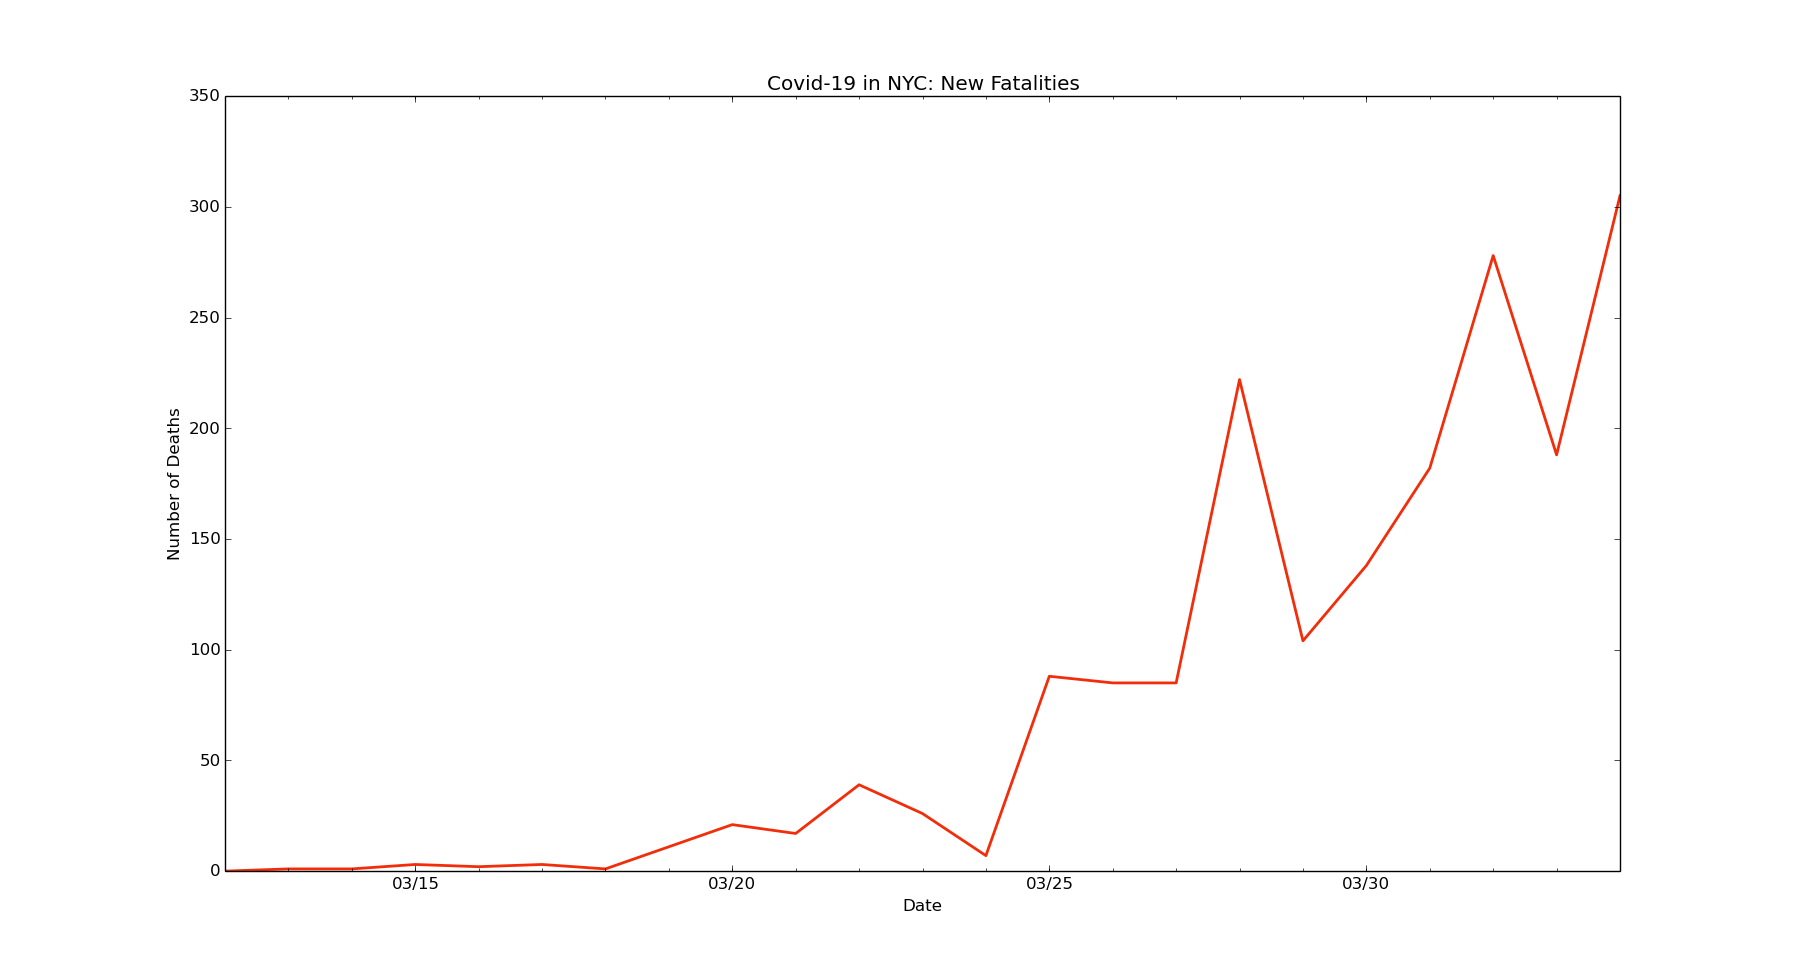
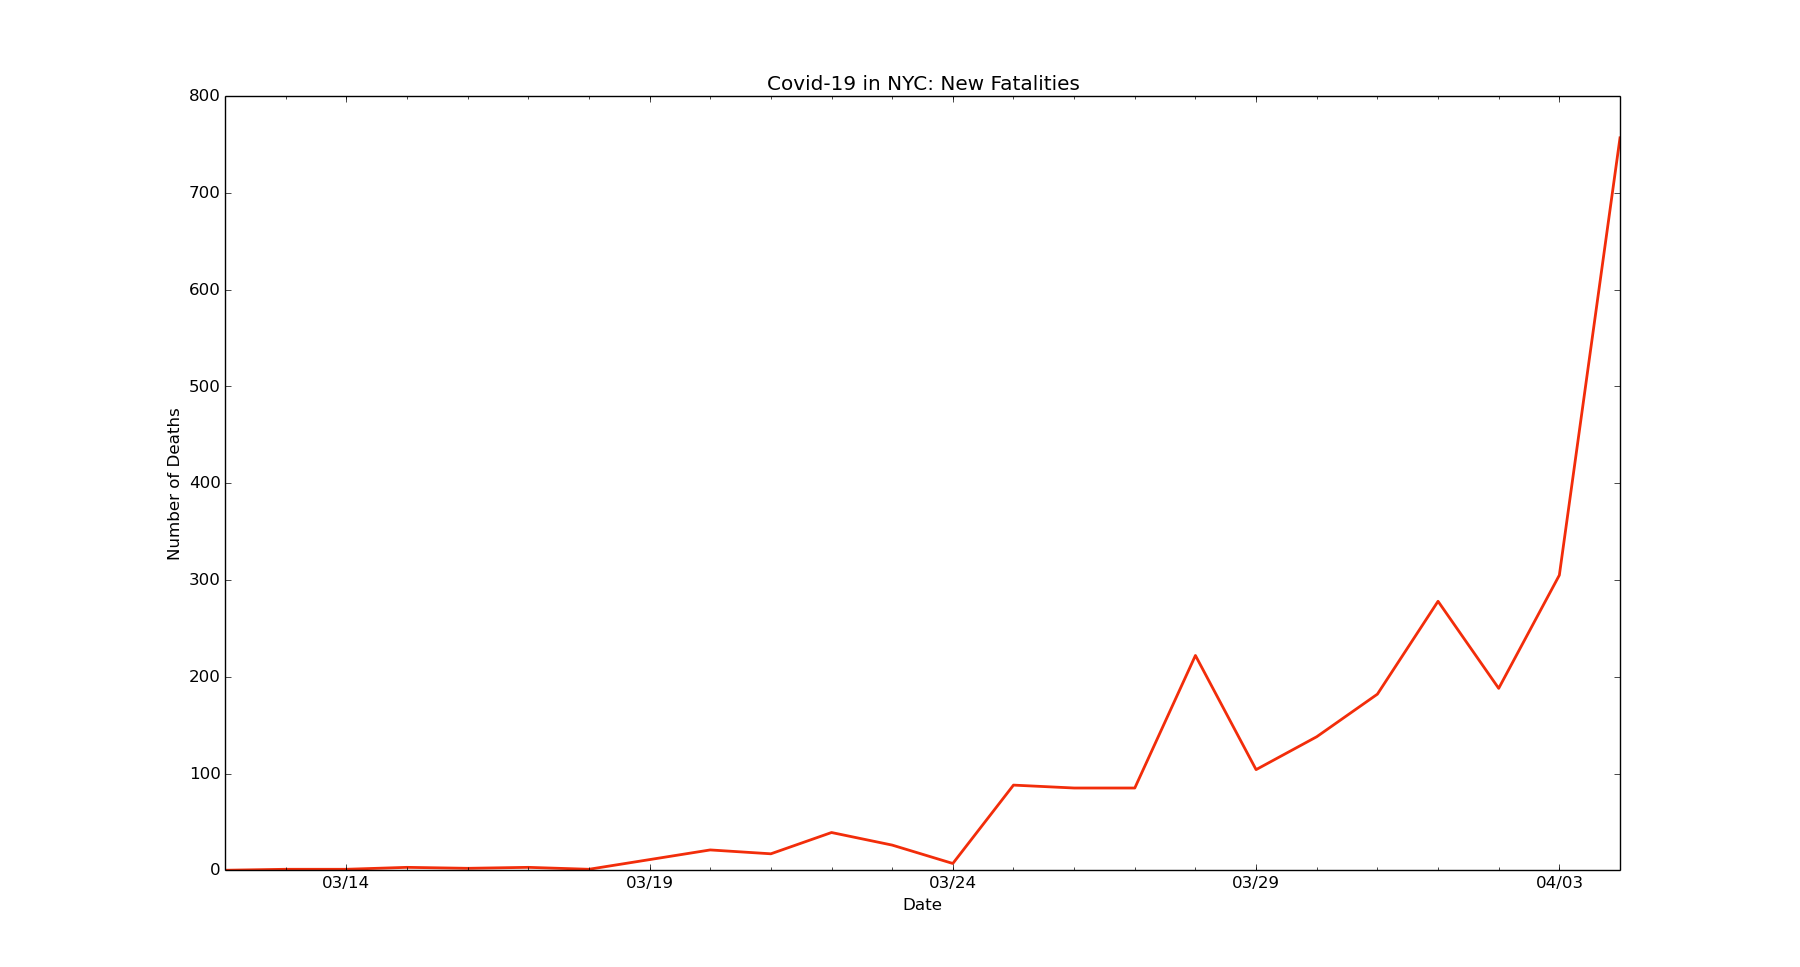
chore: Update data for NYC

diff --git a/nyc/nyc-new-cases.py b/nyc/nyc-new-cases.py
@@ -6,7 +6,7 @@ import matplotlib.dates as mdates
 import matplotlib.ticker as ticker
 from matplotlib.dates import MO, TU, WE, TH, FR, SA, SU
 
-dates = ['2/29/2020', '3/1/2020', '3/2/2020', '3/3/2020', '3/4/2020', '3/5/2020', '3/6/2020', '3/7/2020', '3/8/2020', '3/9/2020', '3/10/2020', '3/11/2020', '3/12/2020', '3/13/2020', '3/14/2020', '3/15/2020', '3/16/2020', '3/17/2020', '3/18/2020', '3/19/2020', '3/20/2020', '3/21/2020', '3/22/2020', '3/23/2020', '3/24/2020', '3/25/2020', '3/26/2020', '3/27/2020', '3/28/2020', '3/29/2020', '3/30/2020', '3/31/2020', '4/1/2020', '4/2/2020', '4/3/2020']
+dates = ['2/29/2020', '3/1/2020', '3/2/2020', '3/3/2020', '3/4/2020', '3/5/2020', '3/6/2020', '3/7/2020', '3/8/2020', '3/9/2020', '3/10/2020', '3/11/2020', '3/12/2020', '3/13/2020', '3/14/2020', '3/15/2020', '3/16/2020', '3/17/2020', '3/18/2020', '3/19/2020', '3/20/2020', '3/21/2020', '3/22/2020', '3/23/2020', '3/24/2020', '3/25/2020', '3/26/2020', '3/27/2020', '3/28/2020', '3/29/2020', '3/30/2020', '3/31/2020', '4/1/2020', '4/2/2020', '4/3/2020', '4/4/2020']
 
 # format dates
 x_values = [dt.datetime.strptime(d, "%m/%d/%Y").date() for d in dates]
@@ -33,7 +33,7 @@ plt.axvline(dt.datetime(2020, 3, 20), linestyle='--', color='red', linewidth=2, 
 plt.axvline(dt.datetime(2020, 3, 22), color='black', linewidth=2, label='stay at home')
 
 # new cases by day
-new_cases = [0, 1, 0, 0, 0, 3, 0, 7, 9, 7, 5, 23, 47, 59, 115, 60, 485, 109, 1086, 1606, 2068, 2432, 2649, 2355, 2478, 4414, 3101, 3585, 4033, 2744, 4613, 5052, 4210, 2358, 6582]
+new_cases = [0, 1, 0, 0, 0, 3, 0, 7, 9, 7, 5, 23, 47, 59, 115, 60, 485, 109, 1086, 1606, 2068, 2432, 2649, 2355, 2478, 4414, 3101, 3585, 4033, 2744, 4613, 5052, 4210, 2358, 6582, 7017]
 
 # text labels
 plt.title('Covid-19 in NYC: New Cases')

diff --git a/nyc/nyc-deaths-new.py b/nyc/nyc-deaths-new.py
@@ -6,7 +6,7 @@ import matplotlib.dates as mdates
 import matplotlib.ticker as ticker
 from matplotlib.dates import MO, TU, WE, TH, FR, SA, SU
 
-dates = ['3/12/2020', '3/13/2020', '3/14/2020', '3/15/2020', '3/16/2020', '3/17/2020', '3/18/2020', '3/19/2020', '3/20/2020', '3/21/2020', '3/22/2020', '3/23/2020', '3/24/2020', '3/25/2020', '3/26/2020', '3/27/2020', '3/28/2020', '3/29/2020', '3/30/2020', '3/31/2020', '4/1/2020', '4/2/2020', '4/3/2020']
+dates = ['3/12/2020', '3/13/2020', '3/14/2020', '3/15/2020', '3/16/2020', '3/17/2020', '3/18/2020', '3/19/2020', '3/20/2020', '3/21/2020', '3/22/2020', '3/23/2020', '3/24/2020', '3/25/2020', '3/26/2020', '3/27/2020', '3/28/2020', '3/29/2020', '3/30/2020', '3/31/2020', '4/1/2020', '4/2/2020', '4/3/2020', '4/4/2020']
 
 # format dates
 x_values = [datetime.datetime.strptime(d, "%m/%d/%Y").date() for d in dates]
@@ -24,7 +24,7 @@ ax.xaxis.set_minor_locator(mdates.WeekdayLocator(byweekday=(MO, TU, WE, TH, FR, 
 ax.get_yaxis().set_major_formatter(ticker.FuncFormatter(lambda x, pos: format(int(x), ',')))
 
 # new deaths by day
-new_deaths = [0, 1, 1, 3, 2, 3, 1, 11, 21, 17, 39, 26, 7, 88, 85, 85, 222, 104, 138, 182, 278, 188, 305]
+new_deaths = [0, 1, 1, 3, 2, 3, 1, 11, 21, 17, 39, 26, 7, 88, 85, 85, 222, 104, 138, 182, 278, 188, 305, 757]
 
 # text labels
 plt.title('Covid-19 in NYC: New Fatalities')
